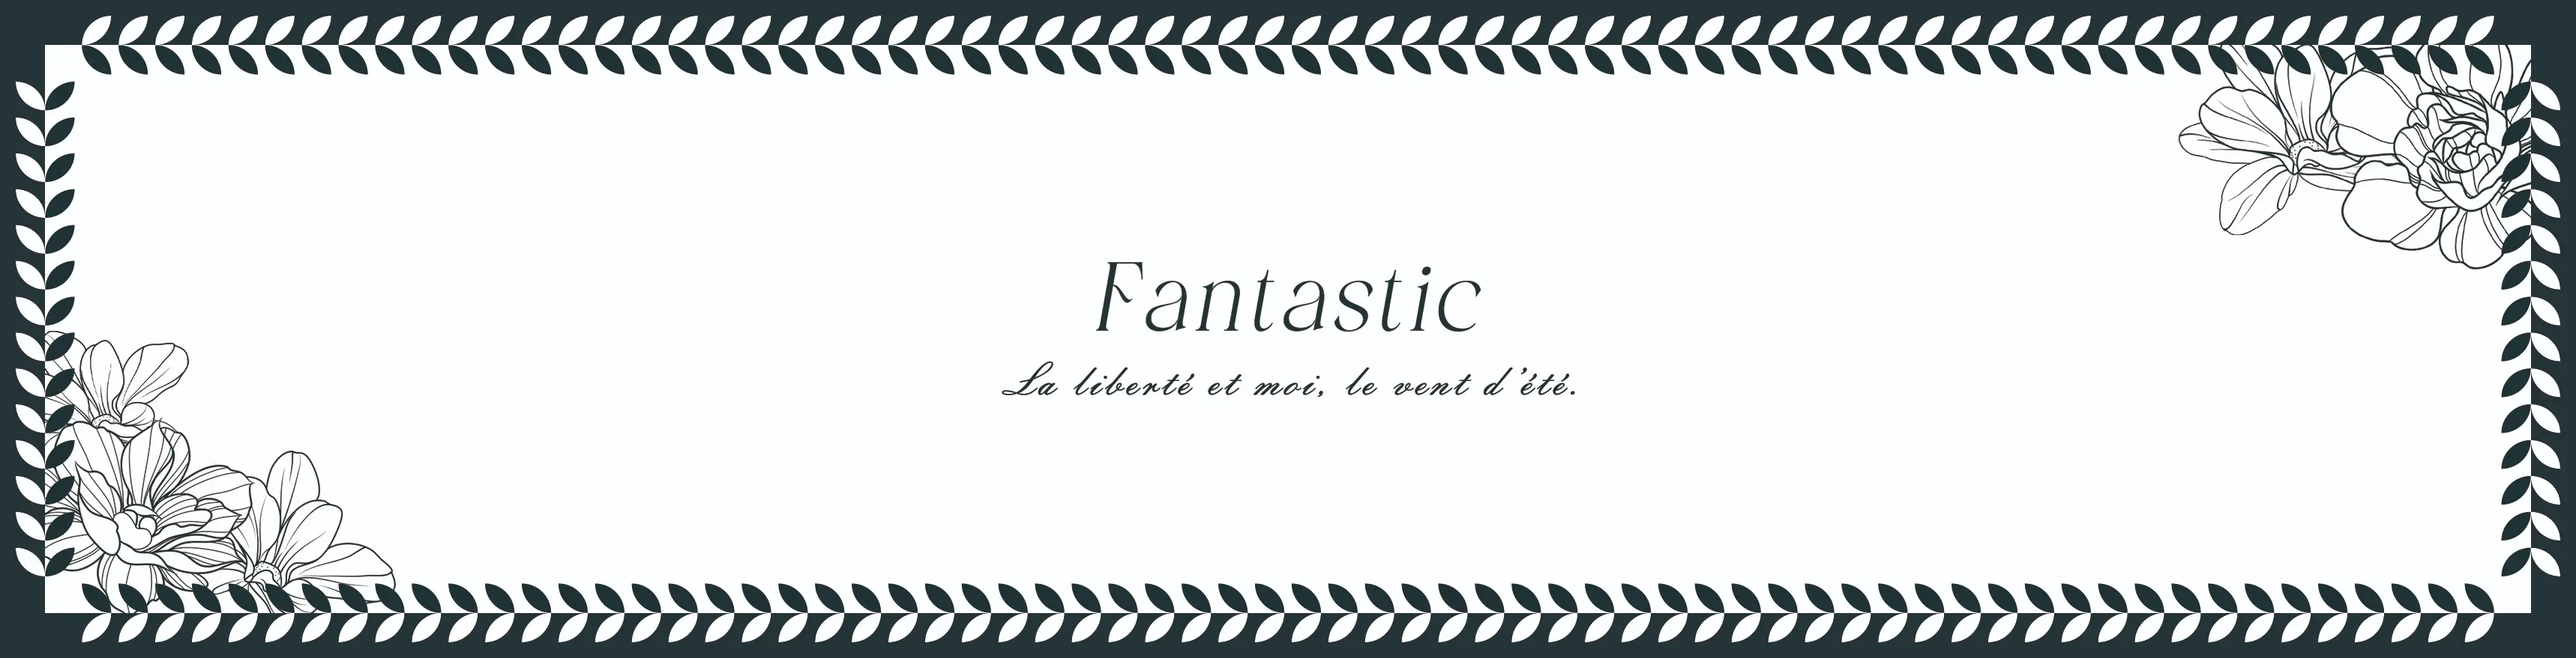
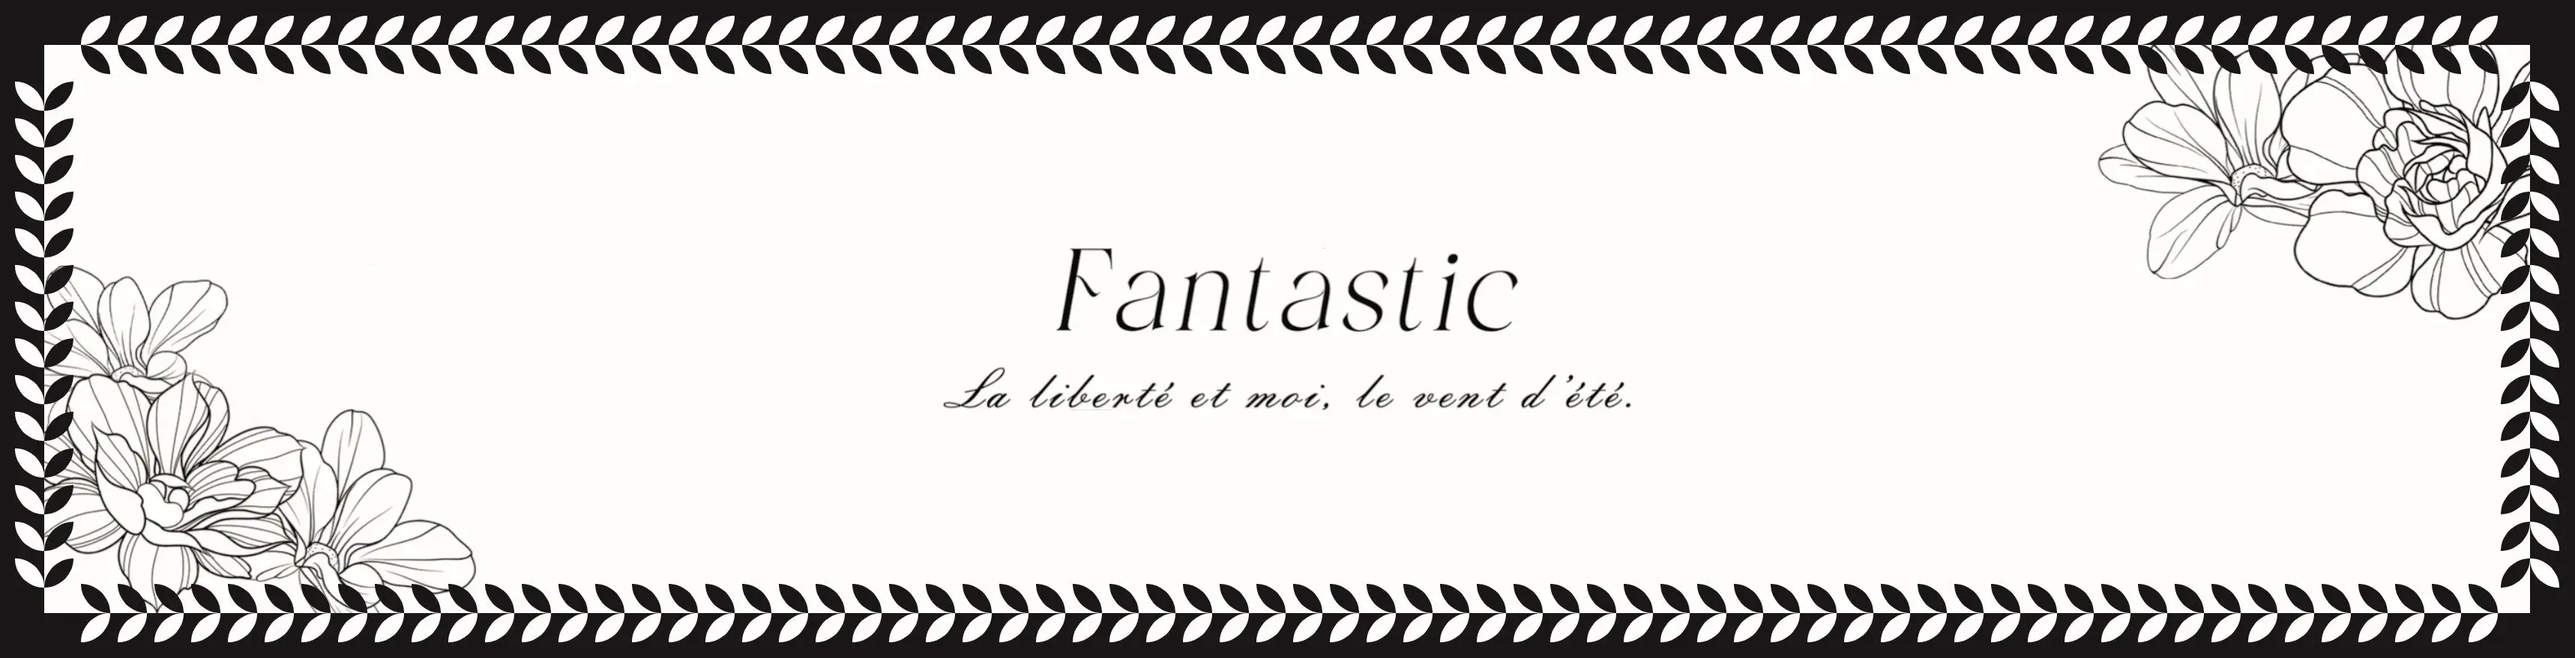
chore: 导出格式为 jpg

Changed region(s): [[0.0, 0.0, 1.0, 1.0], [0.4049, 0.3686, 0.5918, 0.5222], [0.3738, 0.5529, 0.6541, 0.6143]]

diff --git a/src/lib/image-converter.ts b/src/lib/image-converter.ts
@@ -53,9 +53,9 @@ class ImageMagickConverter {
         // 使用 Zip 压缩下图片
         image.settings.compression = CompressionMethod.Zip
 
-        image.write(MagickFormat.Tif, (newData) => {
+        image.write(MagickFormat.Jpg, (newData) => {
           // 在这里可以获取转换后的图像数据
-          const blob = new Blob([newData], { type: 'image/tif' })
+          const blob = new Blob([newData], { type: 'image/jpg' })
           resolve(blob)
         })
       })

diff --git a/src/components/canvas-container/render.vue b/src/components/canvas-container/render.vue
@@ -41,7 +41,7 @@ async function exportToTiff() {
   const dataURL = stageRef.value!.getStage().toDataURL({ pixelRatio: 1 })
   const blob = await imageMagickConverter.rgbToCmyk(dataURL)
   const url = URL.createObjectURL(blob)
-  downloadURI(url, `${text.value}.tif`)
+  downloadURI(url, `${text.value}.jpg`)
   URL.revokeObjectURL(url)
 }
 
